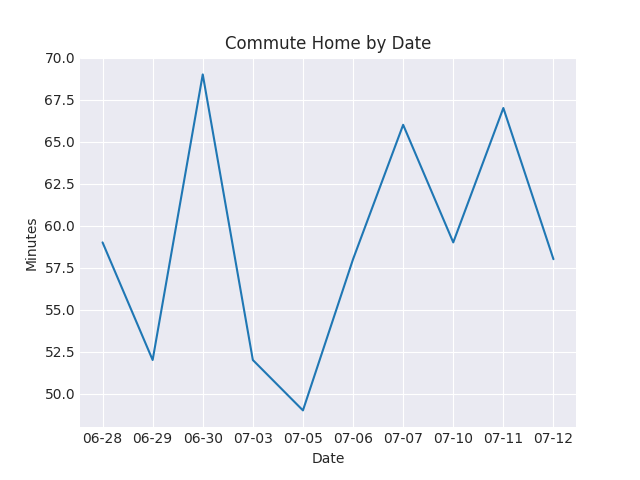
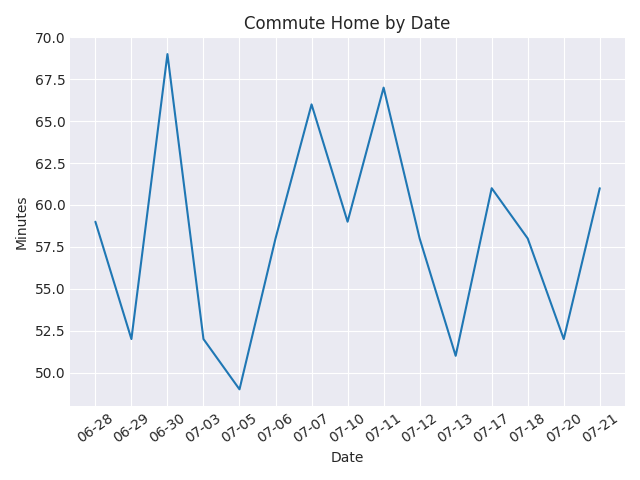
improved chart readability and handles missing corresponding trip on the same day

diff --git a/processResults.py b/processResults.py
@@ -2,7 +2,8 @@ import matplotlib.pyplot as plt
 import pandas as pd
 
 # Read CSV
-df = pd.read_csv('/opt/jericho-flask/traveltime/traveltime.csv')
+# df = pd.read_csv('/opt/jericho-flask/traveltime/traveltime.csv')
+df = pd.read_csv('traveltime.csv')
 
 plt.style.use('seaborn-v0_8-darkgrid')
 
@@ -18,10 +19,10 @@ df['ARRIVE_TIME'] = pd.to_datetime(df['ARRIVE_TIME'], format='%I:%M%p')
 
 # Calculate trip duration in minutes and add it to the data frame
 df['TRIP_DURATION'] = (df['ARRIVE_TIME'] - df['LEAVE_TIME']).dt.total_seconds() / 60.0
+df = df.sort_values(['DATE', 'DAY_OF_WEEK'])
 
 # Calculate the average trip duration by day of week for work
 df_work = df[df['DIRECTION'] == 'work'].groupby('DAY_OF_WEEK')['TRIP_DURATION'].mean().reset_index()
-
 days_of_week = ["Mon", "Tue", "Wed", "Thu", "Fri"]
 
 # Sort the data frame by day of week:
@@ -33,6 +34,25 @@ df_home = df[df['DIRECTION'] == 'home'].groupby('DAY_OF_WEEK')['TRIP_DURATION'].
 # Sort the data frame by day of week:
 df_home['DAY_OF_WEEK'] = pd.Categorical(df_home['DAY_OF_WEEK'], categories=days_of_week, ordered=True)
 df_home = df_home.sort_values('DAY_OF_WEEK')
+
+# Make a new column with short dates which are just month and day
+short_dates = df['DATE'].dt.strftime('%m-%d')
+df['SHORT_DATE'] = short_dates
+df_home_date = df[df['DIRECTION'] == 'home'].groupby('SHORT_DATE')['TRIP_DURATION'].mean().reset_index()
+df_work_date = df[df['DIRECTION'] == 'work'].groupby('SHORT_DATE')['TRIP_DURATION'].mean().reset_index()
+
+# Create a complete date range for the all entries
+date_range = pd.date_range(start=df['DATE'].min(), end=df['DATE'].max(), freq='D')
+date_range_str = date_range.strftime('%m-%d')
+
+# Merge work and home DataFrames, filling gaps with NaN
+merged_df = pd.merge(df_work_date, df_home_date, on='SHORT_DATE', how='right')
+merged_df.columns = ['SHORT_DATE', 'TRIP_DURATION_WORK', 'TRIP_DURATION_HOME']
+merged_df = merged_df.sort_values('SHORT_DATE')
+
+# Interpolate missing values
+merged_df['TRIP_DURATION_WORK_INT'] = merged_df['TRIP_DURATION_WORK'].interpolate()
+merged_df['TRIP_DURATION_HOME_INT'] = merged_df['TRIP_DURATION_HOME'].interpolate()
 
 # generate a bar chart of df_work titled average commute to work by day and save to day_work.png
 plt.bar(df_work['DAY_OF_WEEK'], df_work['TRIP_DURATION'])
@@ -69,36 +89,42 @@ plt.savefig('charts/driver_home.png')
 plt.clf()
 
 # Generate line chart of commute to work by date and save to date_work.png
-# Make a new column with short dates which are just month and day
-short_dates = df['DATE'].dt.strftime('%m-%d')
-df['SHORT_DATE'] = short_dates
-df_work_date = df[df['DIRECTION'] == 'work'].groupby('SHORT_DATE')['TRIP_DURATION'].mean().reset_index()
+
 plt.plot(df_work_date['SHORT_DATE'], df_work_date['TRIP_DURATION'])
 plt.title('Commute to Work by Date')
 plt.xlabel('Date')
 plt.ylabel('Minutes')
+plt.xticks(rotation=35)
+plt.tight_layout()
 plt.savefig('charts/date_work.png')
 plt.clf()
 
 # Generate line chart of commute home by date and save to date_home.png
-df_home_date = df[df['DIRECTION'] == 'home'].groupby('SHORT_DATE')['TRIP_DURATION'].mean().reset_index()
 plt.plot(df_home_date['SHORT_DATE'], df_home_date['TRIP_DURATION'])
 plt.title('Commute Home by Date')
 plt.xlabel('Date')
 plt.ylabel('Minutes')
+plt.xticks(rotation=35)
+plt.tight_layout()
 plt.savefig('charts/date_home.png')
 plt.clf()
 
 # TODO: side by side bar chart of average commute time by driver going to work and home
 
 
-# side by side line chart of commute times by dates
-plt.plot(df_work_date['SHORT_DATE'], df_work_date['TRIP_DURATION'], color='cornflowerblue')
-plt.plot(df_home_date['SHORT_DATE'], df_home_date['TRIP_DURATION'], color='coral')
+# Set markers for non-interpolated data
+plt.plot(merged_df['SHORT_DATE'], merged_df['TRIP_DURATION_WORK'], color='cornflowerblue', marker='o', label='Towards Work')
+plt.plot(merged_df['SHORT_DATE'], merged_df['TRIP_DURATION_HOME'], color='coral', marker='o', label='Towards Home')
+
+# Plot interpolated lines without markers
+plt.plot(merged_df['SHORT_DATE'], merged_df['TRIP_DURATION_WORK_INT'], color='cornflowerblue')
+plt.plot(merged_df['SHORT_DATE'], merged_df['TRIP_DURATION_HOME_INT'], color='coral')
+
 plt.legend(['Towards Work', 'Towards Home'])
 plt.title('Commute Time by Date')
 plt.xlabel('Date')
 plt.ylabel('Minutes')
+plt.xticks(rotation=35)
+plt.tight_layout()
 plt.savefig('charts/date_both.png')
 plt.clf()
-
